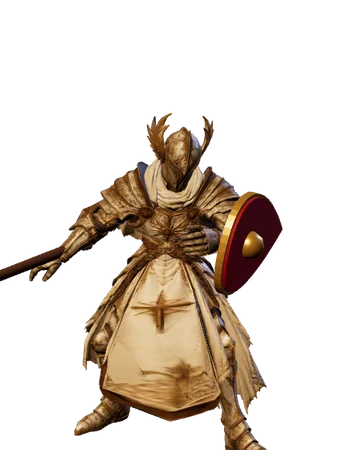
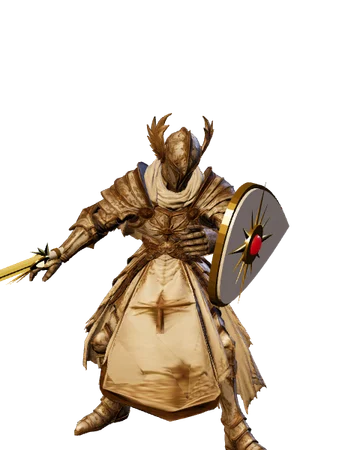
Aurelian leads the roster with a divine sword and sun shield
New attachable 'divine' weapon set: a glowing pale-gold blade with a winged
guard and a white enamel shield with a gold sunburst. The first pipeline
body is renamed Test Dummy.

Claude-Session: https://claude.ai/code/session_01Kh61o4V54m4JqmHVBKfW8e

Changed region(s): [[0.5806, 0.4044, 0.825, 0.6844], [0.0, 0.5289, 0.1833, 0.6533], [0.2139, 0.5289, 0.275, 0.56]]

diff --git a/src/fighterView.js b/src/fighterView.js
@@ -61,7 +61,32 @@ function buildWeapon(kind, bladeMat) {
   // Built pointing along +Y from the grip, in metres.
   const g = new THREE.Group(), wood = std(0x4a3320), gold = std(0xd9b45a, { metalness: 0.6, roughness: 0.35 });
   let tipY, baseY;
-  if (kind === 'spear') {
+  if (kind === 'divine') {
+    // A long tapering blade of pale gold that glows faintly, with a winged guard and a sun at its heart.
+    const bright = std(0xf0c64e, { metalness: 0.85, roughness: 0.22 }), white = std(0xf4eee0, { metalness: 0.3, roughness: 0.4 });
+    const b = new THREE.Shape();
+    b.moveTo(-0.05, 0); b.lineTo(-0.042, 0.78); b.lineTo(0, 1.0); b.lineTo(0.042, 0.78); b.lineTo(0.05, 0); b.closePath();
+    const blade = part(new THREE.ExtrudeGeometry(b, { depth: 0.016, bevelEnabled: false }), bladeMat, 0.008, 0.15, 0);
+    blade.rotation.y = -Math.PI / 2; // the flat of the blade lies in the swing plane, like the plain sword
+    const fuller = part(new THREE.BoxGeometry(0.02, 0.62, 0.012), bright, 0, 0.5, 0);
+    g.add(blade, fuller);
+    g.add(part(new THREE.CylinderGeometry(0.02, 0.024, 0.22, 8), white, 0, 0, 0), part(new THREE.CylinderGeometry(0.027, 0.027, 0.02, 8), bright, 0, -0.05, 0), part(new THREE.CylinderGeometry(0.027, 0.027, 0.02, 8), bright, 0, 0.05, 0));
+    g.add(part(new THREE.OctahedronGeometry(0.045, 0), bright, 0, -0.15, 0));
+    for (const side of [-1, 1]) {
+      // Upswept wings for a crossguard, three feathers a side
+      for (let i = 0; i < 3; i++) {
+        const feather = part(new THREE.ConeGeometry(0.022 - i * 0.004, 0.2 - i * 0.04, 4), bright, 0, 0.15 + i * 0.035, side * (0.09 + i * 0.012));
+        feather.rotation.x = side * (1.15 - i * 0.28); feather.scale.x = 0.45;
+        g.add(feather);
+      }
+    }
+    const sun = part(new THREE.CylinderGeometry(0.05, 0.05, 0.03, 12), bright, 0, 0.15, 0);
+    sun.rotation.z = Math.PI / 2;
+    const gem = part(new THREE.SphereGeometry(0.024, 8, 6), std(0xfff6c8, { emissive: 0xffd76a, emissiveIntensity: 1.6 }), 0, 0.15, 0);
+    gem.scale.x = 1.5;
+    g.add(sun, gem);
+    tipY = 1.15; baseY = 0.25;
+  } else if (kind === 'spear') {
     g.add(part(new THREE.CylinderGeometry(0.018, 0.02, 2.1, 7), wood, 0, 0.45, 0));
     g.add(part(new THREE.ConeGeometry(0.045, 0.3, 6), bladeMat, 0, 1.65, 0), part(new THREE.CylinderGeometry(0.03, 0.03, 0.06, 7), gold, 0, 1.48, 0));
     tipY = 1.8; baseY = 0.9;
@@ -89,16 +114,32 @@ function buildWeapon(kind, bladeMat) {
   return { g, tip, base };
 }
 
-function buildShield(team) {
+function buildShield(team, style) {
   // Kite shield, face along +Z, strap at the origin.
-  const s = new THREE.Shape(), w = 0.2, top = 0.26, bot = -0.4;
+  const divine = style === 'divine';
+  const s = new THREE.Shape(), w = divine ? 0.24 : 0.2, top = divine ? 0.3 : 0.26, bot = divine ? -0.5 : -0.4;
   s.moveTo(0, top); s.quadraticCurveTo(w, top, w, top - 0.2); s.quadraticCurveTo(w * 0.92, -0.15, 0, bot);
   s.quadraticCurveTo(-w * 0.92, -0.15, -w, top - 0.2); s.quadraticCurveTo(-w, top, 0, top);
-  const g = new THREE.Group();
-  const rim = part(new THREE.ExtrudeGeometry(s, { depth: 0.03, bevelEnabled: false }), std(0xc9a04a, { metalness: 0.6, roughness: 0.4 }), 0, 0, 0);
+  const g = new THREE.Group(), gold = std(divine ? 0xf0c64e : 0xc9a04a, { metalness: divine ? 0.85 : 0.6, roughness: divine ? 0.25 : 0.4 });
+  const rim = part(new THREE.ExtrudeGeometry(s, { depth: 0.03, bevelEnabled: false }), gold, 0, 0, 0);
   rim.scale.set(1.07, 1.05, 1);
-  const face = part(new THREE.ExtrudeGeometry(s, { depth: 0.03, bevelEnabled: false }), std(TEAM[team], { roughness: 0.75 }), 0, 0, 0.012);
-  g.add(rim, face, part(new THREE.SphereGeometry(0.06, 8, 6), std(0xd9b45a, { metalness: 0.7, roughness: 0.3 }), 0, 0.05, 0.05));
+  const face = part(new THREE.ExtrudeGeometry(s, { depth: 0.03, bevelEnabled: false }), std(divine ? 0xf2ecdc : TEAM[team], { roughness: divine ? 0.45 : 0.75, metalness: divine ? 0.25 : 0 }), 0, 0, 0.012);
+  g.add(rim, face);
+  if (divine) {
+    // White enamel with a golden sunburst; the gem at its centre carries the team colour.
+    const cy = 0.02;
+    for (let i = 0; i < 12; i++) {
+      const a = (i / 12) * Math.PI * 2, long = i % 3 === 0, len = long ? 0.2 : 0.12;
+      const ray = part(new THREE.ConeGeometry(long ? 0.022 : 0.016, len, 4), gold, Math.sin(a) * (0.07 + len / 2), cy + Math.cos(a) * (0.07 + len / 2), 0.047);
+      ray.rotation.z = -a; ray.scale.z = 0.3;
+      g.add(ray);
+    }
+    const disc = part(new THREE.CylinderGeometry(0.085, 0.085, 0.02, 20), gold, 0, cy, 0.05);
+    disc.rotation.x = Math.PI / 2;
+    const gem = part(new THREE.SphereGeometry(0.045, 10, 8), std(TEAM[team], { emissive: TEAM[team], emissiveIntensity: 0.9, roughness: 0.2 }), 0, cy, 0.058);
+    gem.scale.z = 0.6;
+    g.add(disc, gem);
+  } else g.add(part(new THREE.SphereGeometry(0.06, 8, 6), std(0xd9b45a, { metalness: 0.7, roughness: 0.3 }), 0, 0.05, 0.05));
   return g;
 }
 
@@ -131,12 +172,15 @@ export class FighterView {
     const bones = {};
     model.traverse((o) => { if (o.isBone) bones[o.name] = o; if (o.isMesh) dye(o.material, team, def.id, def.cloth); });
     this.bladeMat = std(0xdfe4e8, { metalness: 0.85, roughness: 0.25, emissive: 0xff5a1a, emissiveIntensity: 0 });
+    // A divine blade is pale gold and always glows a little; a heavy attack makes it blaze.
+    this.baseGlow = 0;
+    if (def.weapon === 'divine') { this.bladeMat.color.set(0xfff0c4); this.bladeMat.emissive.set(0xffc23a); this.baseGlow = 0.55; this.bladeMat.emissiveIntensity = 0.55; }
     const weapon = buildWeapon(def.weapon, this.bladeMat);
     this.tip = weapon.tip; this.base = weapon.base;
     // The clips were not made with a weapon in hand, so these angles are a best fit across all the moves:
     // a sword sits diagonally out of the fist, a spear lies along the palm, the shield faces out from the forearm.
     attach(bones.RightHand, weapon.g, def.weapon === 'spear' ? [Math.PI / 2, 0, 0] : [Math.PI / 4, 0, 0]);
-    attach(bones.LeftForeArm, buildShield(team), [0, -Math.PI * 0.75, 0], [-0.04, 0.16, -0.04]);
+    attach(bones.LeftForeArm, buildShield(team, def.weapon), [0, -Math.PI * 0.75, 0], [-0.04, 0.16, -0.04]);
     this.chest = bones.Spine01 || bones.Spine;
 
     // Coloured ring on the ground so the two sides are never confused, even with the same fighter.
@@ -234,7 +278,7 @@ export class FighterView {
 
     // Heavy attacks glow while charging so they can be read and answered on a small screen.
     const charging = f.state === 'attack' && f.atk.heavy && f.t < f.atk.windup + f.atk.active;
-    const glow = charging ? smooth(f.t / f.atk.windup) * 2.4 : 0;
+    const glow = charging ? this.baseGlow + smooth(f.t / f.atk.windup) * 2.4 : this.baseGlow;
     this.bladeMat.emissiveIntensity += (glow - this.bladeMat.emissiveIntensity) * Math.min(1, 20 * dt);
     this.ring.material.opacity = f.state === 'dead' ? 0.25 : 0.75;
   }

diff --git a/src/roster.js b/src/roster.js
@@ -1,6 +1,11 @@
 // roster.js — the fighters you can pick. Models come from Dawn of Dynasties.
 // `stats` feeds straight into the rules (sim.js); this is also where upgrades will plug in later.
 export const ROSTER = [
+  // The first fighter of The Duel. Made from a concept image (tools/fighters/sun_warlord.png) with tools/new_fighter.py,
+  // on the shared skeleton. Weapons are attached by the game, so `weapon` picks which ones.
+  { id: 'sun_warlord', name: 'Aurelian the Sun-Crowned', origin: 'The Gilded Order', weapon: 'divine',
+    blurb: 'A warlord in white and gold who has never lost in the arena. He carries Dawnbreaker, a blade said to hold the first light of morning, and a shield bearing the sun. Every blow lands like judgement, but all that plate makes him the slowest man on the sand.',
+    stats: { maxHp: 112, maxStam: 85, power: 1.3, armor: 0.2, speed: 3.8, reach: 0.1 } },
   { id: 'franks_knight', name: 'Frankish Knight', origin: 'Franks', weapon: 'sword',
     blurb: 'Mail, shield and a straight sword. No weakness, no tricks.',
     stats: { maxHp: 100, maxStam: 100, power: 1.0, armor: 0.1, speed: 4.4, reach: 0 } },
@@ -25,14 +30,10 @@ export const ROSTER = [
   { id: 'franks_king', name: 'The King', origin: 'Franks', weapon: 'sword',
     blurb: 'Every blow is a royal decree. Tires quickly and moves like a monarch.',
     stats: { maxHp: 110, maxStam: 82, power: 1.28, armor: 0.1, speed: 4.0, reach: 0 } },
-  // Made with tools/new_fighter.py: a Meshy body on the shared skeleton. `cloth` says which colour the game re-dyes per team.
-  { id: 'plate_knight', name: 'The Black Knight', origin: 'The Iron Gate', weapon: 'sword', cloth: 'red',
-    blurb: 'Sworn champion of the Iron Gate, sealed in blackened plate from helm to heel. He is slow to reach you and tires early, but blows that would fell another man barely turn his head.',
+  // The first body made with the Meshy pipeline, kept for trying things out. `cloth` says which colour the game re-dyes per team.
+  { id: 'plate_knight', name: 'Test Dummy', origin: 'The Training Yard', weapon: 'sword', cloth: 'red',
+    blurb: 'A suit of plate that stands where it is told and takes what it is given. Good for practice.',
     stats: { maxHp: 115, maxStam: 90, power: 1.1, armor: 0.22, speed: 4.0, reach: 0 } },
-  // Made from a concept image (tools/fighters/sun_warlord.png).
-  { id: 'sun_warlord', name: 'Aurelian the Sun-Crowned', origin: 'The Gilded Order', weapon: 'mace',
-    blurb: 'A warlord in white and gold who has never lost in the arena. His mace lands like a falling wall and his armour turns most blows, but all that plate makes him the slowest man on the sand.',
-    stats: { maxHp: 112, maxStam: 85, power: 1.3, armor: 0.2, speed: 3.8, reach: 0 } },
 ];
 
 export const byId = (id) => ROSTER.find((r) => r.id === id) || ROSTER[0];

diff --git a/src/select.js b/src/select.js
@@ -20,7 +20,7 @@ export function initSelect({ onGo, onBack }) {
     }
     const f = byId(id);
     $('d-portrait').style.visibility = ''; $('d-portrait').src = PORTRAITS + f.id + '.webp';
-    $('d-origin').textContent = f.origin + ' · ' + ({ spear: 'Spear and shield', mace: 'Mace and shield' }[f.weapon] || 'Sword and shield');
+    $('d-origin').textContent = f.origin + ' · ' + ({ spear: 'Spear and shield', mace: 'Mace and shield', divine: 'Divine sword and shield' }[f.weapon] || 'Sword and shield');
     $('d-name').textContent = f.name; $('d-blurb').textContent = f.blurb;
     $('d-stats').innerHTML = STAT_BARS.map(([label, key, lo, hi]) => {
       const pct = Math.round(Math.max(0.04, Math.min(1, (f.stats[key] - lo) / (hi - lo))) * 100);

diff --git a/src/main.js b/src/main.js
@@ -43,7 +43,7 @@ scene.add(arena.group);
 
 // The two fighters on screen. Filled in once their models have loaded.
 let views = [];
-let fighters = [byId('franks_knight'), byId('byzantines_knight')];
+let fighters = [byId('sun_warlord'), byId('franks_knight')];
 let fighterRequest = 0;
 async function setFighters(youId, rivalId) {
   const request = ++fighterRequest;
